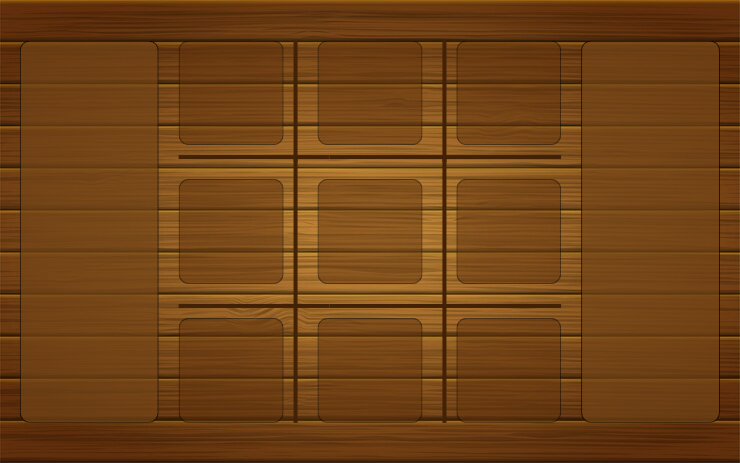
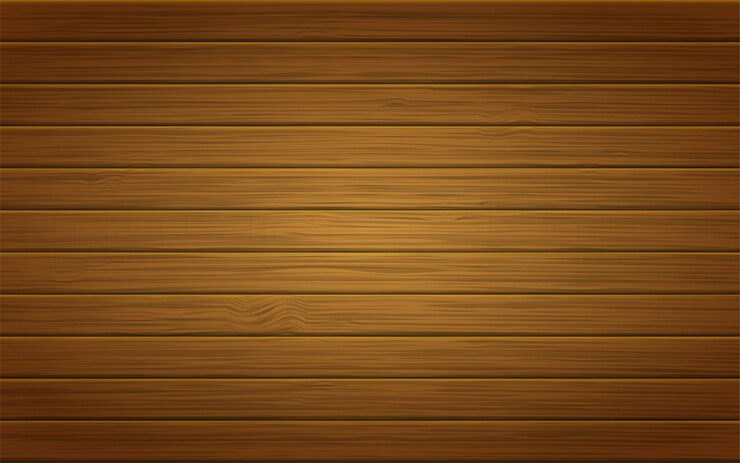
3Rayas

diff --git a/Cliente/TresEnRaya/index.html b/Cliente/TresEnRaya/index.html
@@ -4,19 +4,40 @@
     <meta charset="UTF-8">
     <meta name="viewport" content="width=device-width, initial-scale=1.0">
     <link rel="stylesheet" href="css/style.css">
+    <script type="text/javascript" src="js/script.js"></script>
     <title>✖ Tres en Raya ⭕</title>
 </head>
 <body>
-    <table>
+    <ul id="cruz">
+        <li><img src="img/cruz.png" alt="vacio" height="100" width="100" draggable="true"></li>
+        <li><img src="img/cruz.png" alt="vacio" height="100" width="100" draggable="true"></li>
+        <li><img src="img/cruz.png" alt="vacio" height="100" width="100" draggable="true"></li>
+        <li><img src="img/cruz.png" alt="vacio" height="100" width="100" draggable="true"></li>
+        <li><img src="img/cruz.png" alt="vacio" height="100" width="100" draggable="true"></li>
+    </ul>
+    <table class="tablero">
         <tr>
-            <td>⭕</td><td>⭕</td><td>⭕</td>
+            <td><img src="img/vacio.png" alt="vacio" height="100" width="100" draggable="false"></td>
+            <td><img src="img/vacio.png" alt="vacio" height="100" width="100" draggable="false"></td>
+            <td><img src="img/vacio.png" alt="vacio" height="100" width="100" draggable="false"></td>
         </tr>
         <tr>
-            <td>⭕</td><td>⭕</td><td>⭕</td>
+            <td><img src="img/vacio.png" alt="vacio" height="100" width="100" draggable="false"></td>
+            <td><img src="img/vacio.png" alt="vacio" height="100" width="100" draggable="false"></td>
+            <td><img src="img/vacio.png" alt="vacio" height="100" width="100" draggable="false"></td>
         </tr>
         <tr>
-            <td>⭕</td><td>⭕</td><td>⭕</td>
+            <td><img src="img/vacio.png" alt="vacio" height="100" width="100" draggable="false"></td>
+            <td><img src="img/vacio.png" alt="vacio" height="100" width="100" draggable="false"></td>
+            <td><img src="img/vacio.png" alt="vacio" height="100" width="100" draggable="false"></td>
         </tr>
     </table>
+    <ul id="circ">
+        <li><img src="img/circulo.png" alt="vacio" height="100" width="100" draggable="false"></li>
+        <li><img src="img/circulo.png" alt="vacio" height="100" width="100" draggable="false"></li>
+        <li><img src="img/circulo.png" alt="vacio" height="100" width="100" draggable="false"></li>
+        <li><img src="img/circulo.png" alt="vacio" height="100" width="100" draggable="false"></li>
+        <li><img src="img/circulo.png" alt="vacio" height="100" width="100" draggable="false"></li>
+    </ul>
 </body>
 </html>

diff --git a/Cliente/TresEnRaya/js/script.js b/Cliente/TresEnRaya/js/script.js
@@ -1,0 +1,97 @@
+//!---------------------!//
+//! Funcionalidad Vista !//
+//!---------------------!//
+document.addEventListener('DOMContentLoaded', (event) => {
+  let dragSrcEl = null;
+
+  function handleDragStart(e) {
+    dragSrcEl = this;
+    e.dataTransfer.effectAllowed = 'move';
+    e.dataTransfer.setData('text/plain', this.src);
+  }
+
+  function handleDragOver(e) {
+    if (e.preventDefault) {
+      e.preventDefault();
+    }
+    e.dataTransfer.dropEffect = 'move';
+    return false;
+  }
+
+  function handleDrop(e) {
+    if (e.stopPropagation) {
+      e.stopPropagation();
+    }
+
+    const src = e.dataTransfer.getData('text/plain');
+      
+    if (this.tagName === 'TD' && this.querySelector('img').src.includes('vacio.png')) {
+      const imgInCell = this.querySelector('img');
+      imgInCell.src = src;
+      dragSrcEl.src = 'img/vacio.png'
+      dragSrcEl.setAttribute('draggable', 'false');
+      nextTurn();
+    }
+
+    return false;
+  }
+
+  function changeLock(cruz, circ){
+    document.querySelectorAll('#cruz li img').forEach(element => {
+      element.setAttribute('draggable', cruz);
+    });
+    document.querySelectorAll('#circ li img').forEach(element => {
+      element.setAttribute('draggable', circ);
+    });
+  }
+
+  document.querySelectorAll('ul li img').forEach(img => {
+    img.addEventListener('dragstart', handleDragStart);
+  });
+
+  document.querySelectorAll('table td').forEach(cell => {
+    cell.addEventListener('dragover', handleDragOver);
+    cell.addEventListener('drop', handleDrop);
+  });
+
+  //! --------------------------!//
+  //! Funcionalidad Controlador !//
+  //! --------------------------!//
+  function nextTurn(){
+    // TODO comprobar victoria
+
+    changeTurn();
+  }
+
+
+  //!----------------------!//
+  //! Funcionalidad Modelo !//
+  //!----------------------!//
+  let turn = false; //* False ➡ Cruz || True ➡ Circulo
+  let multiplayer = false; //TODO Hacer que cambie por un botón
+
+  function checkWin(){
+    let celdas = document.querySelectorAll('.tablero td');
+    let tablero = [];
+
+    for (let i = 0; i < celdas.length; i++) {
+      tablero.push(celdas[i]);
+      console.log(celdas[i]);
+    }
+
+    
+
+  }
+
+  function changeTurn(){
+    turn = !turn;
+
+    if(!multiplayer){
+
+      changeLock(!turn, turn)
+
+    }else{
+      //TODO Juega la AI
+    }
+  }
+});

diff --git a/Cliente/TresEnRaya/css/style.css b/Cliente/TresEnRaya/css/style.css
@@ -1,13 +1,40 @@
+*{
+    text-align: center;
+}
+
 body{
+    background-color: rgba(78, 52, 12, 0.568);
+
     background-image: url("/img/fondo.png");
-    background-position: center;
+    background-position: center center;
+    background-size: cover;
     background-repeat: no-repeat;
 
+    margin: 0px;
     width: 100vw;
     height: 100vh;
 
     align-items: center;
     display: flex;
     justify-content: center;
-    margin: 0px;
+}
+
+table{
+    background-color: rgba(70, 41, 7, 0.4);
+    border-radius: 20px;
+    border-spacing: 25px;
+}
+
+td{
+    background-color: rgba(70, 41, 7, 0.3);
+    border-radius: 20px;
+}
+
+ul{
+    margin-left: 50px;
+    margin-right: 50px;
+    background-color: rgba(70, 41, 7, 0.5);
+    border-radius: 20px;
+    padding: 0;
+    list-style-type: none;
 }
